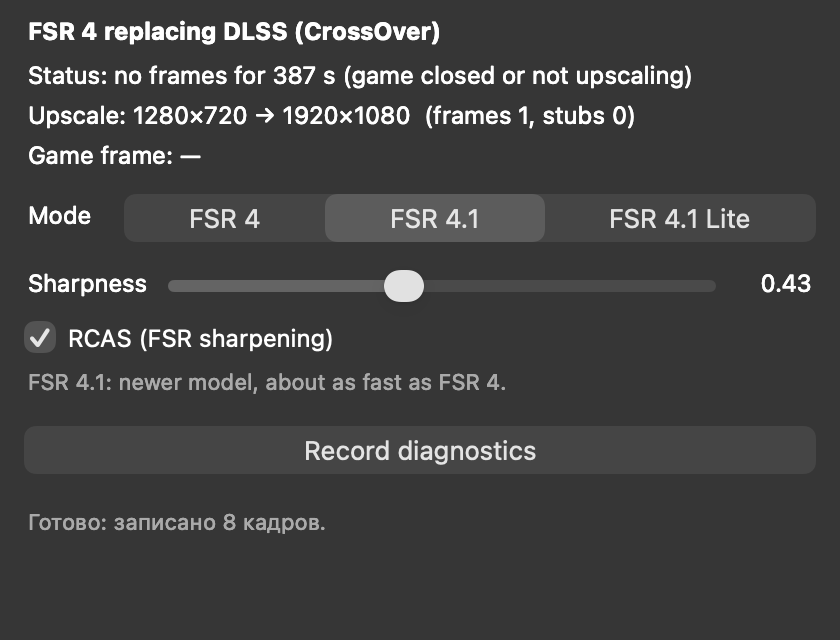
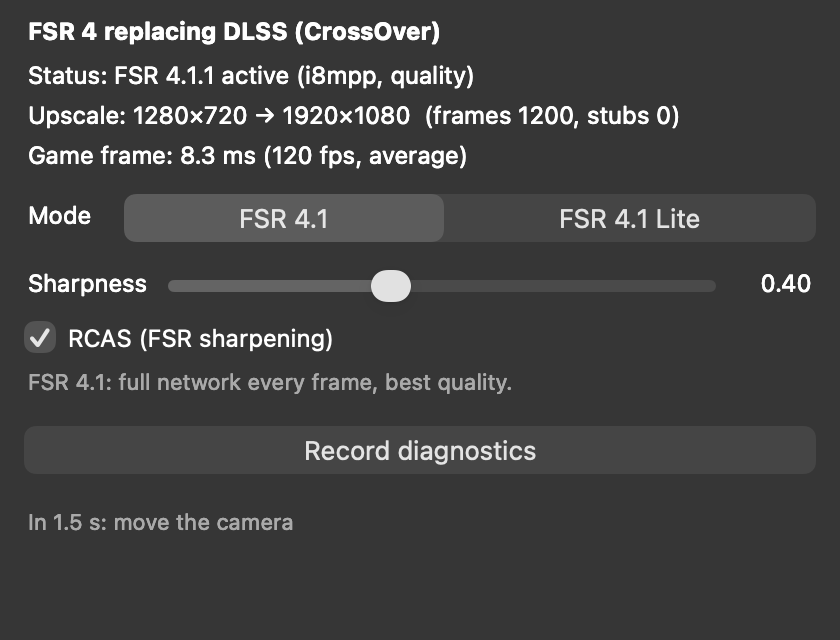
Panel: drop the FSR 4 (4.0.2) mode, keep FSR 4.1 and FSR 4.1 Lite
The panel offered FSR 4 only when the 4.0.2 weights were present, so
source builds and releases differed. Now it always shows the two 4.1
modes; FSR4_PROFILE=fsr4 still selects the old model and the panel then
says so. README/GUIDE tables and the panel screenshot updated.

diff --git a/tools/crossover/panel_app.mm b/tools/crossover/panel_app.mm
@@ -55,23 +55,14 @@ static int profile_from_name(const std::string &name, int fallback) {
 static const char *profile_label(int profile) {
     return profile == 1 ? "lossy" : profile == 2 ? "exact-fast" : profile == 3 ? "fsr4" : "exact";
 }
-// Panel modes: FSR 4 (4.0.2 model), FSR 4.1 (Exact Fast), FSR 4.1 Lite
-// (Lossy). Exact stays available through FSR4_PROFILE/panel.conf and then
-// shows no selected segment. FSR 4 is offered only when the 4.0.2 weights are
-// present (the 4.1-only release omits them).
-static bool g_has402 = true;
-static bool has_fsr402() {
-    struct stat st = {};
-    return stat((g_root + "/third_party/fsr4/internal/shaders/fsr4_model_v07_i8_quality/initializers.bin").c_str(), &st) == 0;
-}
+// Panel modes: FSR 4.1 (Exact Fast) and FSR 4.1 Lite (Lossy). Exact and the
+// old FSR 4.0.2 model ("fsr4") stay available through FSR4_PROFILE or
+// panel.conf and then show no selected segment.
 static int segment_profile(NSInteger segment) {
-    static const int all[] = {3, 2, 1}, only411[] = {2, 1};
-    return g_has402 ? all[segment] : only411[segment];
+    return segment == 0 ? 2 : 1;
 }
 static NSInteger segment_for_profile(int profile) {
-    if (profile == 2) return g_has402 ? 1 : 0;
-    if (profile == 1) return g_has402 ? 2 : 1;
-    return profile == 3 && g_has402 ? 0 : -1;
+    return profile == 2 ? 0 : profile == 1 ? 1 : -1;
 }
 
 static Status read_status() {
@@ -184,15 +175,12 @@ static NSTextField *label(NSString *s, CGFloat x, CGFloat y, CGFloat w, BOOL bol
     float sharp; bool rc; int profile;
     read_settings(sharp, rc, profile);
     [v addSubview:label(@"Mode", 12, y, 50, NO)];
-    g_has402 = has_fsr402();
-    NSArray *modes = g_has402 ? @[@"FSR 4", @"FSR 4.1", @"FSR 4.1 Lite"] : @[@"FSR 4.1", @"FSR 4.1 Lite"];
-    self.profile = [NSSegmentedControl segmentedControlWithLabels:modes
+    self.profile = [NSSegmentedControl segmentedControlWithLabels:@[@"FSR 4.1", @"FSR 4.1 Lite"]
         trackingMode:NSSegmentSwitchTrackingSelectOne target:self action:@selector(changed:)];
     self.profile.frame = NSMakeRect(62, y - 4, W - 74, 26);
     self.profile.selectedSegment = segment_for_profile(profile);
-    self.profile.toolTip = [NSString stringWithFormat:@"%@FSR 4.1: the 4.1.1 network with fast PRE/POST math. "
-                           @"FSR 4.1 Lite: reuses inference on eligible frames, fastest. Switching resets history.",
-                           g_has402 ? @"FSR 4: the previous 4.0.2 model. " : @""];
+    self.profile.toolTip = @"FSR 4.1: the 4.1.1 network with fast PRE/POST math. "
+                           @"FSR 4.1 Lite: reuses inference on eligible frames, fastest. Switching resets history.";
     self.profile.accessibilityLabel = @"FSR mode";
     [v addSubview:self.profile]; y -= 34;
     [v addSubview:label(@"Sharpness", 12, y, 70, NO)];
@@ -312,8 +300,8 @@ static NSTextField *label(NSString *s, CGFloat x, CGFloat y, CGFloat w, BOOL bol
     self.profile.enabled = !pinned;
     self.profileHint.stringValue = self.settingsError ?: (pinned
         ? @"The bottle pins FSR 4.0.2 (FSR4_VERSION); modes need 4.1.1."
-        : profile == 3 ? @"FSR 4: previous model (4.0.2)."
-        : profile == 2 ? @"FSR 4.1: newer model, about as fast as FSR 4."
+        : profile == 3 ? @"FSR 4 (4.0.2 model), set by FSR4_PROFILE."
+        : profile == 2 ? @"FSR 4.1: full network every frame, best quality."
         : profile == 1 ? @"FSR 4.1 Lite: fastest, skips the network on some frames."
         : @"FSR 4.1 Exact (bit-exact reference), set by FSR4_PROFILE.");
     self.sharpVal.stringValue = [NSString stringWithFormat:@"%.2f", s];

diff --git a/tools/crossover/crossover_fsr4.py b/tools/crossover/crossover_fsr4.py
@@ -44,7 +44,7 @@ PANEL_KEY = "FSR4_PANEL"
 VERSION_KEY = "FSR4_VERSION"
 PROFILE_KEY = "FSR4_PROFILE"
 METALFX_KEY = "D3DM_ENABLE_METALFX"
-# "fsr4" is the panel's fourth mode: the FSR 4.0.2 model under a 4.1.1 install.
+# "fsr4": the FSR 4.0.2 model under a 4.1.1 install (FSR4_PROFILE only, not in the panel).
 PROFILES = ("exact", "exact-fast", "lossy", "fsr4")
 OURS = (KEY, LOG_KEY, ROOT_KEY, REPLACE_KEY, PANEL_KEY, VERSION_KEY, PROFILE_KEY)
 

diff --git a/docs/GUIDE.md b/docs/GUIDE.md
@@ -85,9 +85,10 @@ tools/bin/fsr4mac --backend-info
 | --- | --- |
 | FSR 4.1 Lite | Самый быстрый (по умолчанию) |
 | FSR 4.1 | Полное качество |
-| FSR 4 | Старая модель 4.0.2, для сравнения |
 
-Режим меняется сразу, перезапуск не нужен.
+Режим и резкость меняются сразу, перезапуск не нужен. Старая модель 4.0.2
+в панели не показывается: её можно включить только при сборке из исходников
+через `FSR4_PROFILE=fsr4` (см. ниже).
 
 ## 5. Как всё вернуть
 

diff --git a/README.md b/README.md
@@ -51,7 +51,6 @@ The **FSR 4** panel lets you switch modes on the fly:
 | --- | --- | ---: |
 | FSR 4.1 Lite | Fastest, tiny quality trade-offs (default) | ~3.0 ms |
 | FSR 4.1 | Full quality, fast math | ~4.3 ms |
-| FSR 4 | Older 4.0.2 model, for comparison | ~4.5 ms |
 
 \* 864×560 → 1712×1112 per frame.
 
